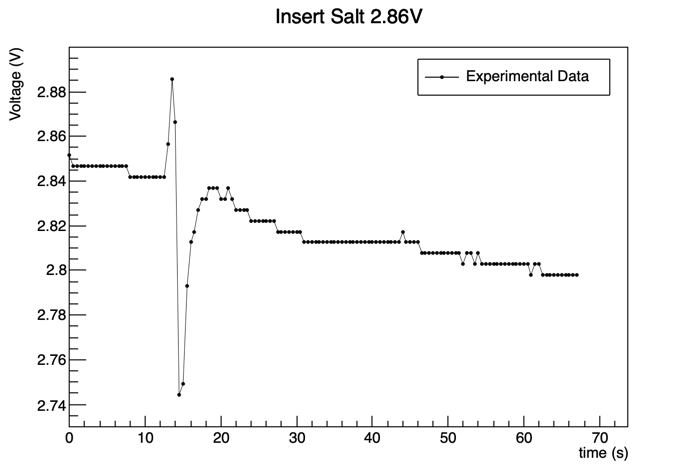
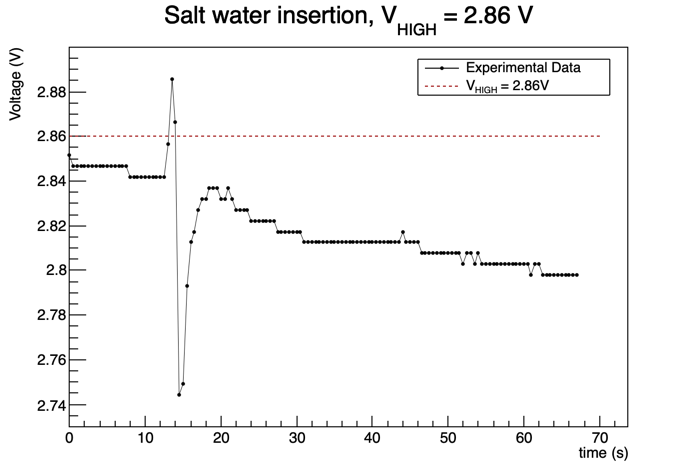
Threshold line added

Changed region(s): [[0.2407, 0.0, 0.7822, 0.0884], [0.6017, 0.1179, 0.8424, 0.2063]]

diff --git a/Graph/Analysis.C b/Graph/Analysis.C
@@ -32,20 +32,28 @@ void Analysis()
     g1->Fit("f_exp1", "S", "", 25, 50);
 
     // Graph cosmetic
-    g1->SetTitle("Insert salt from 3.2V;time (s);Voltage (V)");
+    g1->SetTitle("Salt water Insertion, V_{HIGH} = 3.1 V;time (s);Voltage (V)");
     g1->SetMarkerStyle(8);
     g1->SetMarkerColor(kBlack);
     g1->SetMarkerSize(.4);
     g1->SetLineStyle(1);
     g1->SetLineWidth(1.);
 
+    //Threshold line
+    TLine *line1 = new TLine(0.,3.1,42.2,3.1);
+    line1->SetLineColor(kRed + 2);
+    line1->SetLineStyle(2);
+
     // Legend
     TLegend *leg1 = new TLegend(0.6,0.15,0.85,0.25);
     leg1->AddEntry(g1, "Experimental Data");
     leg1->AddEntry(f_exp1, "Fit V = Ae^{-t/T}+V_{0}");
+    leg1->AddEntry(line1, "V_{HIGH} = 3.1V", "l");
+
 
     // Draw and save
     g1->Draw();
+    line1->Draw("SAME");
     leg1->Draw("SAME");
     c1->Print("FinalPlots/Insert_salt_from_3_2V.png");
 
@@ -90,20 +98,27 @@ void Analysis()
     g3->Fit("f_exp3", "S", "", 113, 126);
 
     // Graph cosmetic
-    g3->SetTitle("Tap water insertion, V_{low} = 2.1 V; time (s); Voltage (V)");
+    g3->SetTitle("Tap water insertion, V_{LOW} = 2.1 V; time (s); Voltage (V)");
     g3->SetMarkerStyle(8);
     g3->SetMarkerColor(kBlack);
     g3->SetMarkerSize(.4);
     g3->SetLineStyle(1);
     g3->SetLineWidth(1.);
 
+    //Threshold line
+    TLine *line3 = new TLine(72.,2.1,130.,2.1);
+    line3->SetLineColor(kRed + 2);
+    line3->SetLineStyle(2);
+
     // Legend
-    TLegend *leg3 = new TLegend(0.105,0.75,0.33,0.9);
+    TLegend *leg3 = new TLegend(0.105,0.75,0.337,0.9);
     leg3->AddEntry(g3, "Experimental Data");
     leg3->AddEntry(f_exp3, "Fit V = Ae^{-t/T}+V_{0}");
+    leg3->AddEntry(line3, "V_{LOW} = 2.1V", "l");
 
     // Draw and save
     g3->Draw();
+    line3->Draw("SAME");
     leg3->Draw("SAME");
     c3->Print("FinalPlots/Insert_tap_2.png");
     //----------------------------------------------------------
@@ -123,21 +138,28 @@ void Analysis()
     g4->Fit("f_exp4", "S", "", 40, 80);
 
     // Graph cosmetic
-    g4->SetTitle("Insert salt 3V;time (s);Voltage (V)");
+    g4->SetTitle("Salt water insertion, V_{HIGH} = 3 V;time (s);Voltage (V)");
     g4->SetMarkerStyle(8);
     g4->SetMarkerColor(kBlack);
     g4->SetMarkerSize(.4);
     g4->SetLineStyle(1);
     g4->SetLineWidth(1.);
 
+    //Threshold line
+    TLine *line4 = new TLine(0.,3.,90.,3.);
+    line4->SetLineColor(kRed + 2);
+    line4->SetLineStyle(2);
+
     // Legend
-    TLegend *leg4 = new TLegend(0.125,0.13,0.4,0.205);
+    TLegend *leg4 = new TLegend(0.125,0.13,0.4,0.23);
     leg4->AddEntry(g4, "Experimental Data");
     leg4->AddEntry(f_exp4, "Fit V = Ae^{-t/T}+V_{0}");
+    leg4->AddEntry(line4, "V_{HIGH} = 3V","l");
 
 
     // Draw and save
     g4->Draw();
+    line4->Draw("SAME");
     leg4->Draw("SAME");
     c4->Print("FinalPlots/Insert_salt_3V.png");
     //----------------------------------------------------------
@@ -148,19 +170,26 @@ void Analysis()
     TGraph *g5 = (TGraph *)f->Get("Graph;5");
 
     // Graph cosmetic
-    g5->SetTitle("Insert Salt 2.86V;time (s);Voltage (V)");
+    g5->SetTitle("Salt water insertion, V_{HIGH} = 2.86 V;time (s);Voltage (V)");
     g5->SetMarkerStyle(8);
     g5->SetMarkerColor(kBlack);
     g5->SetMarkerSize(.4);
     g5->SetLineStyle(1);
     g5->SetLineWidth(1.);
 
+    //Threshold line
+    TLine *line5 = new TLine(0.,2.86,70.,2.86);
+    line5->SetLineColor(kRed + 2);
+    line5->SetLineStyle(2);
+
     // Legend
     TLegend *leg5 = new TLegend(0.6,0.8,0.875,0.875);
     leg5->AddEntry(g5, "Experimental Data");
+    leg5->AddEntry(line5, "V_{HIGH} = 2.86V","l");
 
     // Draw and save
     g5->Draw();
+    line5->Draw("SAME");
     leg5->Draw("SAME");
     c5->Print("FinalPlots/Insert_salt_2_86V.png");
     //-----------------------------------------------------------
